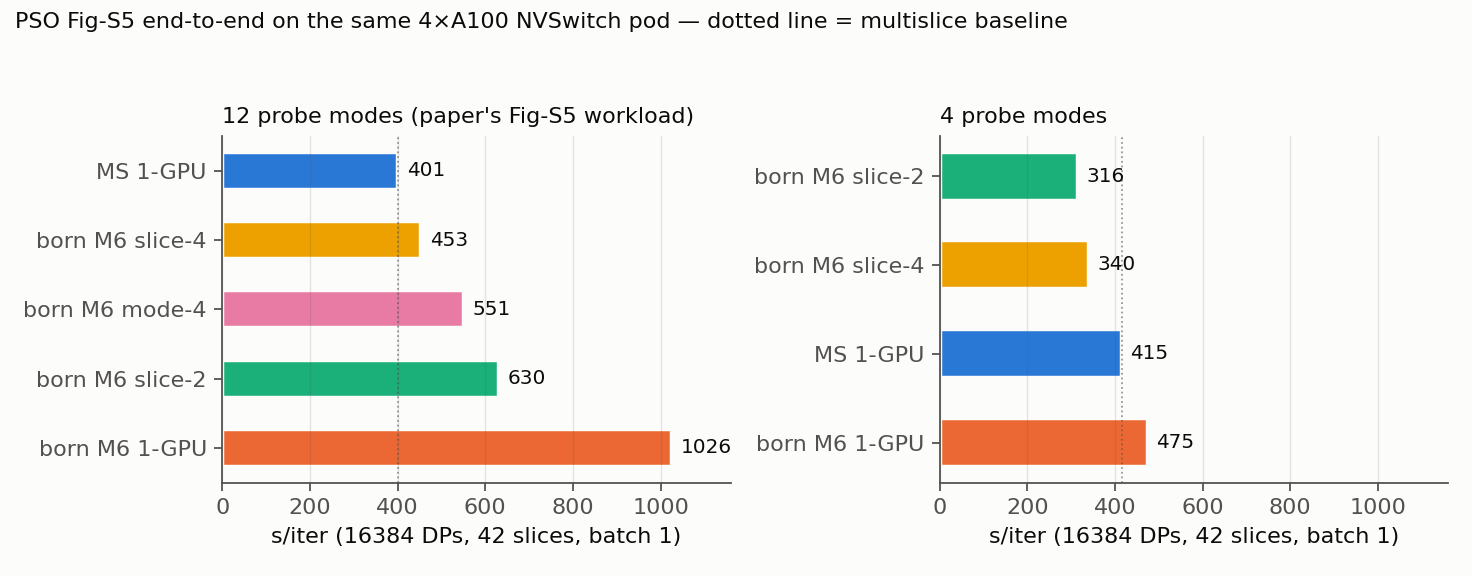
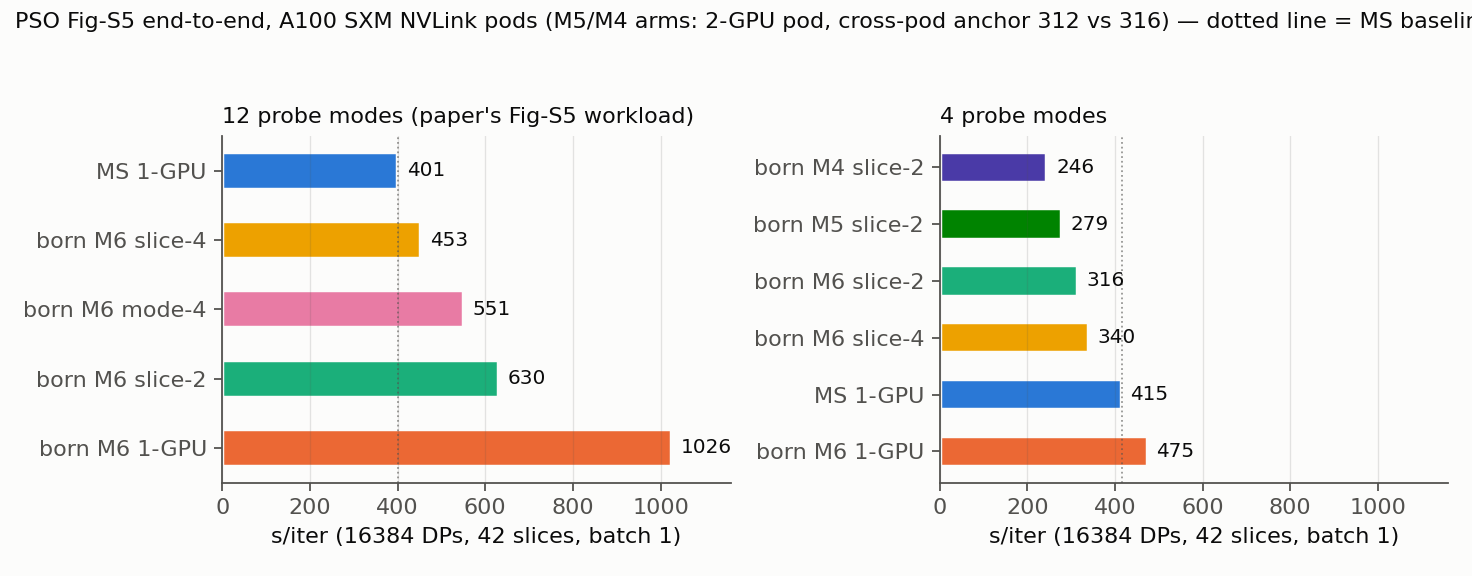
Section O.2: born order at pmode 4 beats the 316 target — M4 slice-2 245.7 (1.69x vs MS), M5 279 safe pick, grow promotes to 6 (quality check owed)

Changed region(s): [[0.5, 0.5625, 0.8125, 0.8125], [0.5, 0.25, 0.7812, 0.5312], [0.1875, 0.0, 1.0, 0.0625]]

diff --git a/demo/nvlink/redo/make_figs_redo.py b/demo/nvlink/redo/make_figs_redo.py
@@ -67,13 +67,16 @@ fig.savefig("fig_redo_nz_scaling.png", dpi=160)
 plt.close(fig)
 
 # ---- Fig 2: E2E s/iter at the Fig-S5 workload (summary.log) ----------------
+GREEN, VIOLET = "#008300", "#4a3aa7"
 ARM_COLOR = {"MS 1-GPU": BLUE, "born M6 1-GPU": ORANGE,
              "born M6 slice-2": AQUA, "born M6 slice-4": YELLOW,
-             "born M6 mode-4": MAGENTA}
+             "born M6 mode-4": MAGENTA,
+             "born M5 slice-2": GREEN, "born M4 slice-2": VIOLET}
 P12 = [("MS 1-GPU", 401.0), ("born M6 slice-4", 452.8),
        ("born M6 mode-4", 551.3), ("born M6 slice-2", 630.3),
        ("born M6 1-GPU", 1026.5)]
-P4 = [("born M6 slice-2", 315.8), ("born M6 slice-4", 340.3),
+P4 = [("born M4 slice-2", 245.7), ("born M5 slice-2", 279.1),
+      ("born M6 slice-2", 315.8), ("born M6 slice-4", 340.3),
       ("MS 1-GPU", 415.0), ("born M6 1-GPU", 474.6)]
 
 fig, axes = plt.subplots(1, 2, figsize=(9.2, 3.6), sharex=True)
@@ -95,9 +98,9 @@ for ax, data, title in zip(
     ax.grid(axis="x", color=INK2, alpha=0.15, linewidth=0.6)
     ax.set_xlabel("s/iter (16384 DPs, 42 slices, batch 1)")
     ax.set_xlim(0, 1160)
-fig.suptitle("PSO Fig-S5 end-to-end on the same 4×A100 NVSwitch pod — "
-             "dotted line = multislice baseline", fontsize=10, x=0.01,
-             ha="left")
+fig.suptitle("PSO Fig-S5 end-to-end, A100 SXM NVLink pods (M5/M4 arms: 2-GPU "
+             "pod, cross-pod anchor 312 vs 316) — dotted line = MS baseline",
+             fontsize=10, x=0.01, ha="left")
 fig.tight_layout(rect=(0, 0, 1, 0.94))
 fig.savefig("fig_redo_e2e.png", dpi=160)
 plt.close(fig)

diff --git a/demo/bench_results.md b/demo/bench_results.md
@@ -987,6 +987,38 @@ picture (launch-latency-bound) was correctly refuted.
   `bench_ms_vs_born_b1.py` Nz=512 compiled-MS hits an Inductor
   RecursionError on 2.14.1 (512-row head-to-head stands from SSL round 2).
 
+### O.2 Beating 316: born order at pmode 4 (round 4, 2x A100 SXM NV12)
+
+Owner-funded follow-up pod (7l2rfw58c91bw3, $3.58/h, ~$2.2 total), torch
+2.14.1+cu130 matched to the §O table. All arms: pmode 4, slice-2, full
+16384-DP / Nz=42 workload, NITER 1 (grow: 3).
+
+| arm             | s/iter | vs MS-p4 (415) | iter-1 loss | refit det resid |
+|-----------------|--------|----------------|-------------|-----------------|
+| M4 slice-2      | **245.7** | **1.69x**   | 0.3968      | 4.0e-3          |
+| M5 slice-2      | 279.1  | 1.49x          | 0.3961      | 1.3e-3          |
+| M6 slice-2 repro| 312.3  | 1.33x          | 0.3963      | 4.2e-4          |
+| grow 3->6 cap 6 | 246.2 avg | (214.6/244.9/278.9 per iter) | 0.3958->0.3303 | grew n=4->5->6 |
+
+- Cross-pod anchor: repro 312.3 vs §O's 315.8 (1.1% — 2-GPU pod numbers are
+  comparable to the 4-GPU pod's slice-2 arm).
+- **M4 beats the 316 target by 22%** (245.7) at near-identical iter-1 loss
+  (+0.0005); M5 by 12% at equal loss. Refit residual grows 10x per dropped
+  order (4e-4 -> 4e-3): truncation is visible to the fit but not (yet) to
+  the loss.
+- **Risk flag: grow's refit kept promoting 4->5->6 as the object developed**
+  — the data asks for more orders once structure appears, so M4's 1-iter
+  loss parity is NOT proof of equal converged quality. The §K.3 "settles at
+  M=5" result was at 4096 DPs. QUALITY CHECK OWED (local, free): p4
+  M4-vs-M5-vs-M6 contrast at ~10 iters before adopting M4.
+- Interim recommendation: **M5 + pmode 4 + slice-2 = 279 s/iter (1.49x vs
+  MS)** as the safe operating point; M4 (1.69x) if the local quality check
+  clears it. Housekeeping (~10.8 ms/batch, now ~55-70% of the step) remains
+  the untouched lever — engine work, not GPU count.
+- Ops: account-key injection verified (user-deployed pod SSH'd first try);
+  image was torch 2.8.0 (has set_stance) but upgraded anyway for
+  comparability.
+
 Figures: `nvlink/figs_redo/fig_redo_e2e.png` (E2E bars, both mode counts),
 `nvlink/figs_redo/fig_redo_nz_scaling.png` (slice-split speedup vs Nz);
 source `nvlink/redo/make_figs_redo.py`. Raw logs in
